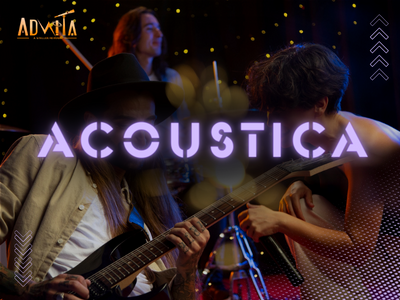
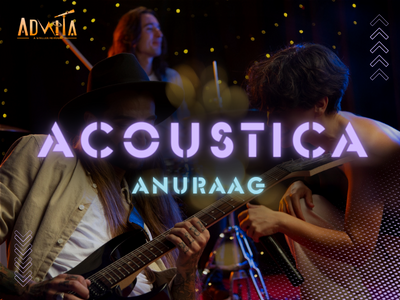
changes in acoustica and esports

Changed region(s): [[0.33, 0.57, 0.69, 0.66]]

diff --git a/src/routes/eventsData.js b/src/routes/eventsData.js
@@ -149,6 +149,26 @@ export const eventsData = [
         linkText: "Register",
         prize:10000
       },
+      {
+        date: "1ST MARCH",
+        time: "5:30 PM - 7:00 PM",
+        description:
+          "Gear up for an evening of unparalleled talent, where the stage will come alive with the beats of innovation, the rhymes of intellect, and the stories of a generation that refuses to be confined by conventions. RapMania – where engineering meets expression, and creativity knows no boundaries. Get ready to be immersed in a symphony of words and beats that redefine the very essence of rap. Let the competition begin!.",
+        image: "/event-images/acoustica (2).png",
+        link: "https://unstop.com/p/acoustica-anuraag-international-institute-of-information-technology-iiit-bhubaneswar-858136",
+        linkText: "Register",
+        prize:10000
+      },
+      {
+        date: "1ST MARCH",
+        time: "5:30 PM - 7:00 PM",
+        description:
+          "Beatboxing (also beat boxing) is a form of vocal percussion primarily involving the art of mimicking drum machines using one's mouth, lips, tongue, and voice. It may also involve vocal imitation of turntablism, and other musical instruments. Beatboxing today is connected with hip-hop culture, often referred to as the fifth element of hip-hop, although it is not limited to hip-hop music. The term beatboxing is sometimes used to refer to vocal percussion in general..",
+        image: "/event-images/acoustica (3).png",
+        link: "https://unstop.com/events/amplified-rhythm-beatboxing-competition-advaita-tecno-cultural-fest-international-institute-of-information-techno-858146",
+        linkText: "Register",
+        prize:10000
+      },
 
       {
         date: "29th FEBRUARY",
@@ -241,7 +261,17 @@ export const eventsData = [
         time: "10:00 AM - 5:00 PM",
         description:
           "There would be tournaments in popular games like Valorant PC, COD mobile etc. Also there would be a wide range of tournaments and leagues for all skill levels. Whether you’re a beginner or a pro, you can find the perfect competition to challenge yourself and show off your skills. Not to mention there would be a variety of rewards and prizes for the top players.",
-        image: "/event-images/e_sports.png",
+        image: "/event-images/e-sports.png",
+        link: "https://unstop.com/p/e-sports-international-institute-of-information-technology-iiit-bhubaneswar-858272",
+        linkText: "Register",
+        prize: 10000
+      },
+      {
+        date: "29 FEB - 1ST MARCH",
+        time: "10:00 AM - 5:00 PM",
+        description:
+          "There would be tournaments in popular games like Valorant PC, COD mobile etc. Also there would be a wide range of tournaments and leagues for all skill levels. Whether you’re a beginner or a pro, you can find the perfect competition to challenge yourself and show off your skills. Not to mention there would be a variety of rewards and prizes for the top players.",
+        image: "/event-images/e-sports (2).png",
         link: "https://unstop.com/p/e-sports-international-institute-of-information-technology-iiit-bhubaneswar-858272",
         linkText: "Register",
         prize: 10000
